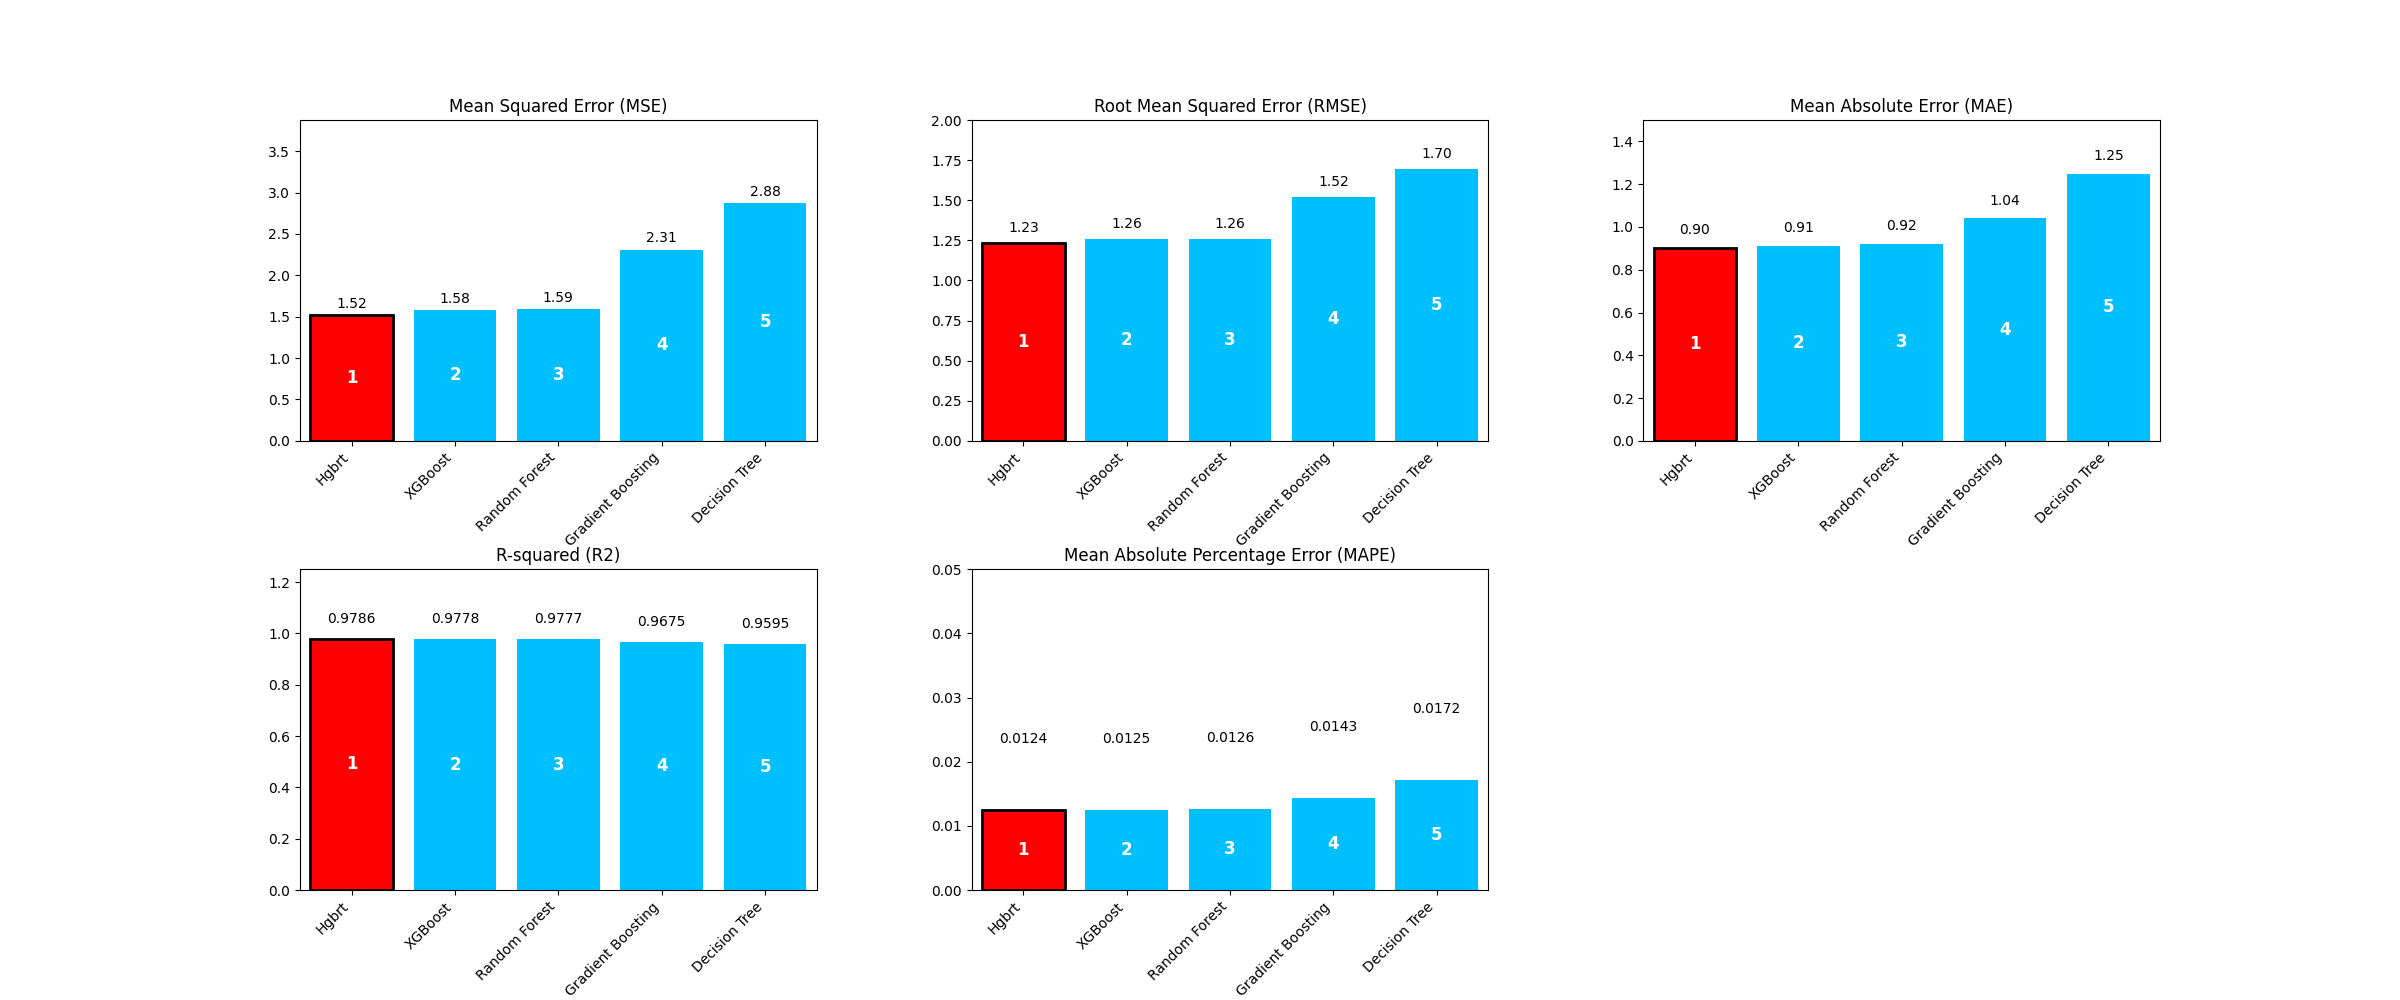
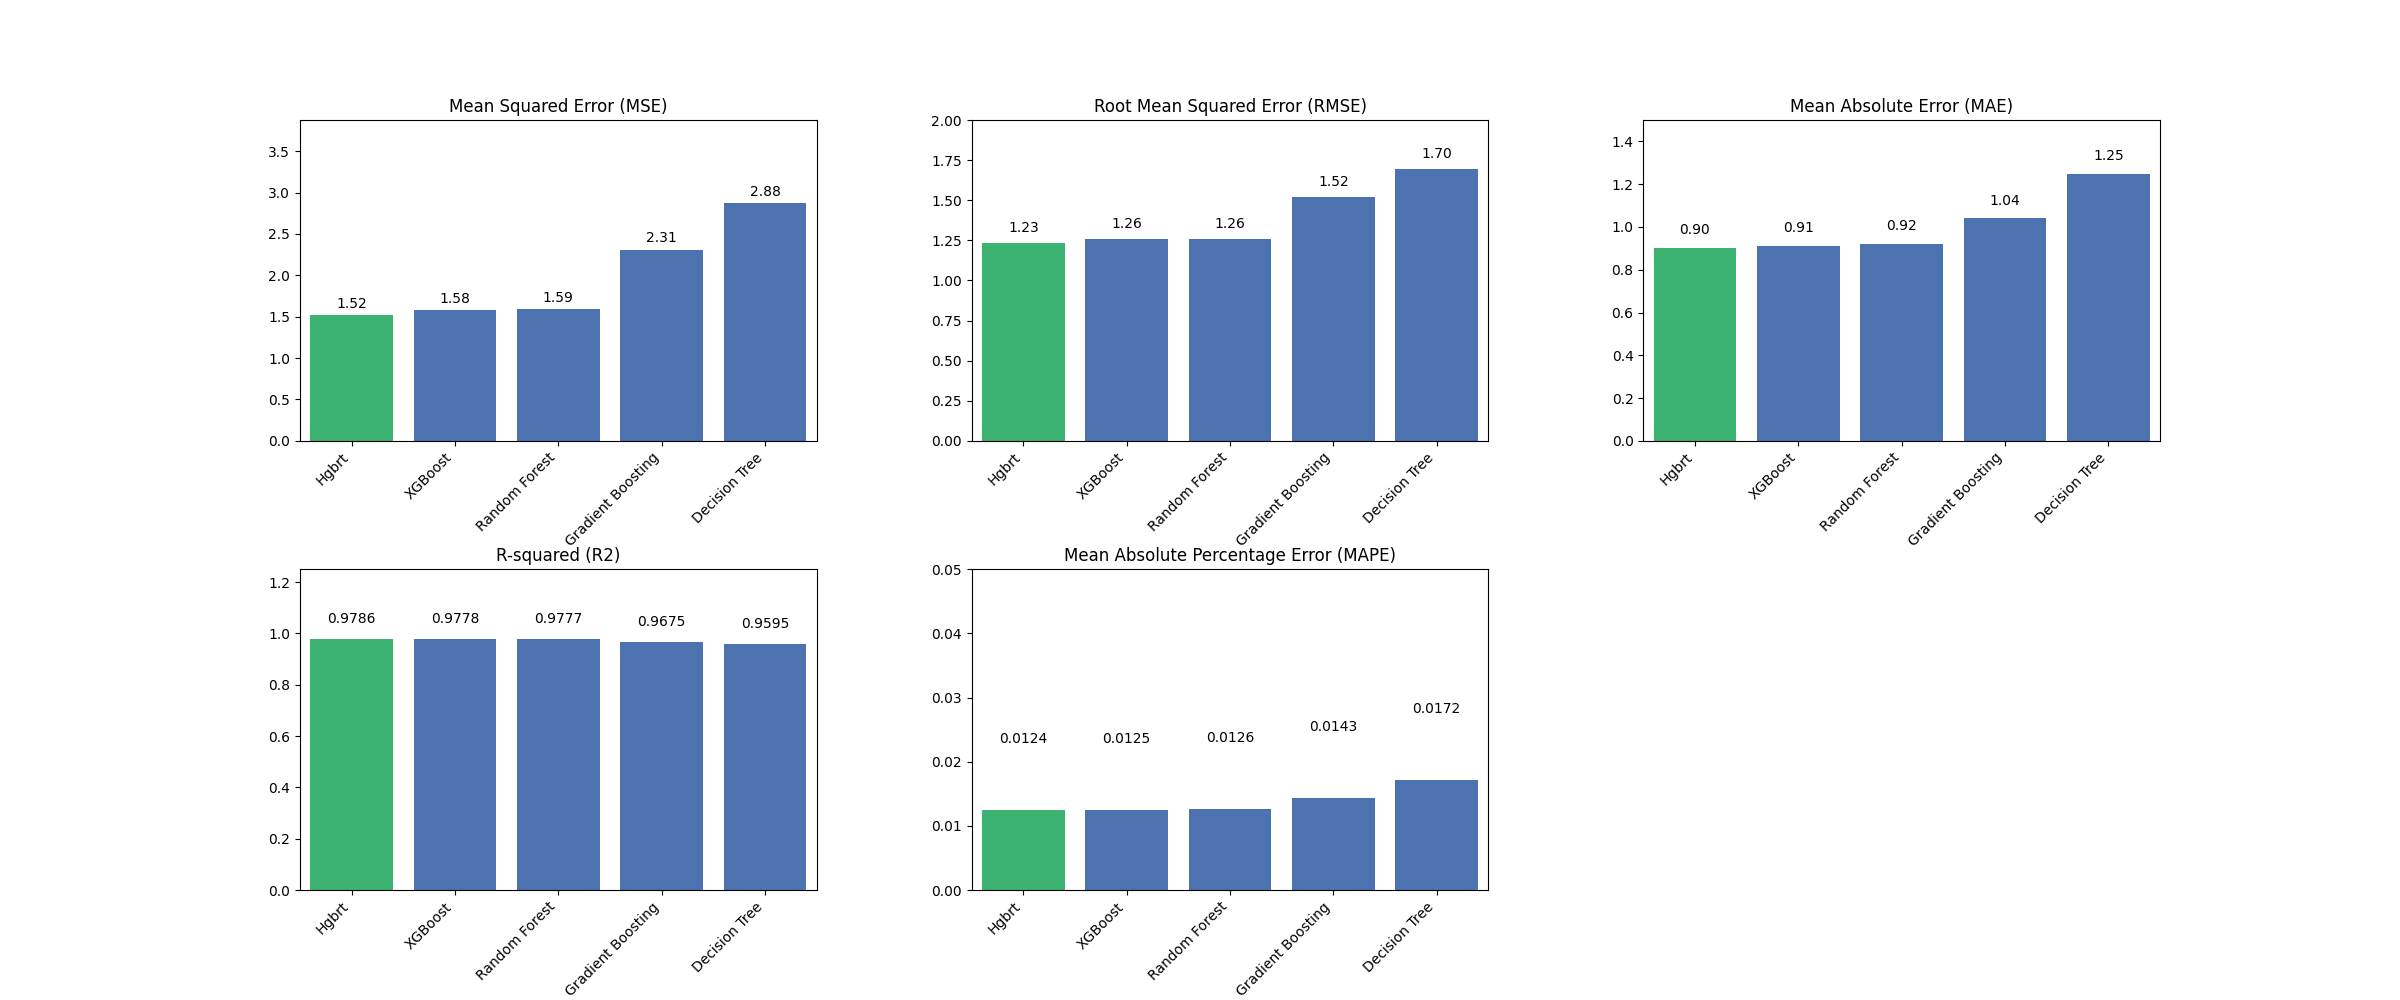
updated randoms states and graph colours

diff --git a/src/params.py b/src/params.py
@@ -5,10 +5,13 @@ import numpy as np
 # Load the data
 df = pd.read_csv('../data/model_best_params.csv')
 
-
+# Set BO_TPE as the best model (you can change this logic based on your criteria)
+best_model = 'Hgbrt_BO_TPE'
 
 # Define the color for each model, with BO_TPE highlighted
-colors = 'cornflowerblue'
+colors = ['mediumseagreen' if model == best_model 
+          else 'lightcoral' if model == 'Hgbrt' 
+          else '#4c72b0' for model in df['Model Name']]
 
 # Parameters to plot
 parameters = ['l2_regularization', 'learning_rate', 'max_depth', 'max_iter', 'max_leaf_nodes', 'min_samples_leaf']
@@ -23,7 +26,8 @@ for i, param in enumerate(parameters):
     # Plot the parameter values
     ax.bar(df['Model Name'], df[param], color=colors)
     
-
+    # Highlight the BO_TPE bar
+    ax.bar(df.loc[df['Model Name'] == best_model, 'Model Name'], df.loc[df['Model Name'] == best_model, param], color='mediumseagreen')
     
     ax.set_title(param)
     ax.set_xlabel('Model Name')
@@ -35,5 +39,3 @@ plt.tight_layout()
 
 # Save the plot before showing it
 plt.savefig('../graphs/model_output/best_params_comparison.png')
-
-

diff --git a/src/test.py b/src/test.py
@@ -15,11 +15,13 @@ y = df['Resource_Allocation']
 # Split the dataset into training and testing sets
 X_train, X_test, y_train, y_test = train_test_split(X, y, test_size=0.2, random_state=42)
 
+
+seed=42
 # Define the models
 models = {
-    'Random Forest': RandomForestRegressor(random_state=42),
-    'XGBoost': xgb.XGBRegressor(random_state=42),
-    'HGBRT': HistGradientBoostingRegressor(random_state=42)
+    # 'Random Forest': RandomForestRegressor(random_state=seed),
+    # 'XGBoost': xgb.XGBRegressor(random_state=seed),
+    'HGBRT': HistGradientBoostingRegressor(random_state=seed)
 }
 
 # Dictionary to store the results
@@ -58,3 +60,5 @@ for metric in ['MSE', 'RMSE', 'MAE', 'R²', 'MAPE']:
     best_model = metrics_df[metric].idxmin() if metric != 'R²' else metrics_df[metric].idxmax()
     best_value = metrics_df[metric][best_model]
     print(f"Best {metric}: {best_model} with value {best_value:.4f}")
+    
+print("RANDOM STATE = ",seed)

diff --git a/src/top.py b/src/top.py
@@ -22,14 +22,12 @@ def annotate_plot(ax, data, metric):
         annotation_height = row[metric] + (0.05 if metric != 'MAPE' else 0.01)
         # Annotate with values and rank
         ax.text(i, annotation_height, value, ha='center', va='bottom')
-        ax.text(i, row[metric] / 2, f'{row["Rank"]}', ha='center', va='center', color='white', fontsize=12, fontweight='bold')
         # Highlight the top model
         if row['Rank'] == 1:
-            bars[i].set_facecolor('red')
-            bars[i].set_edgecolor('black')
+            bars[i].set_facecolor('mediumseagreen')
             bars[i].set_linewidth(2)
         else:
-            bars[i].set_facecolor('deepskyblue')
+            bars[i].set_facecolor('#4c72b0')
 
 # Get top 5 models for each metric and add ranking
 top_models = pd.concat([

diff --git a/src/optimization.py b/src/optimization.py
@@ -191,7 +191,7 @@ def objective(trial):
         max_depth=trial.suggest_int('max_depth', 5, 30),
         min_samples_leaf=trial.suggest_int('min_samples_leaf', 5, 50),
         l2_regularization=trial.suggest_float('l2_regularization', 0, 2),
-        random_state=10
+        random_state=40
     )
     return -cross_val_score(model, X_train, y_train, cv=5, scoring='neg_mean_squared_error').mean()
 

diff --git a/src/compare.py b/src/compare.py
@@ -23,7 +23,7 @@ y_limits = {
 }
 
 # Color for all bars (mild blue) and top 3 (green mild)
-default_color = 'cornflowerblue'
+default_color = '#4c72b0'
 top3_color = 'mediumseagreen'
 
 # Initialize the plot
